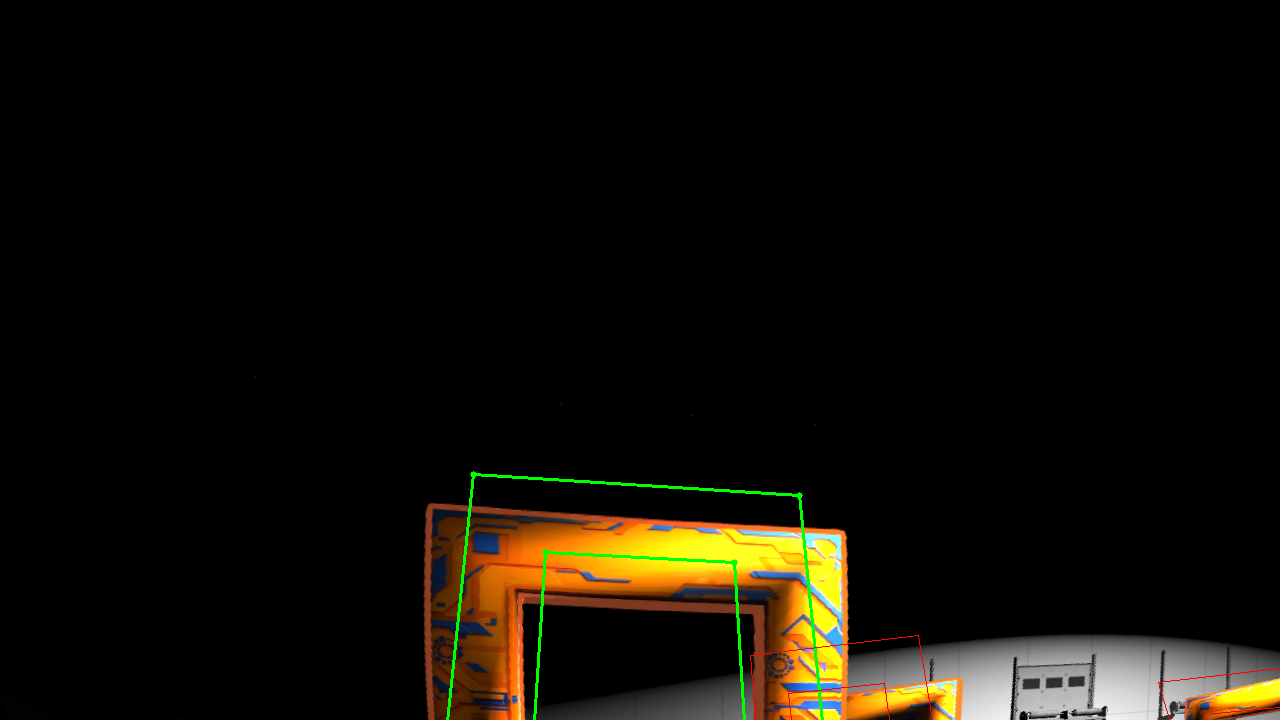
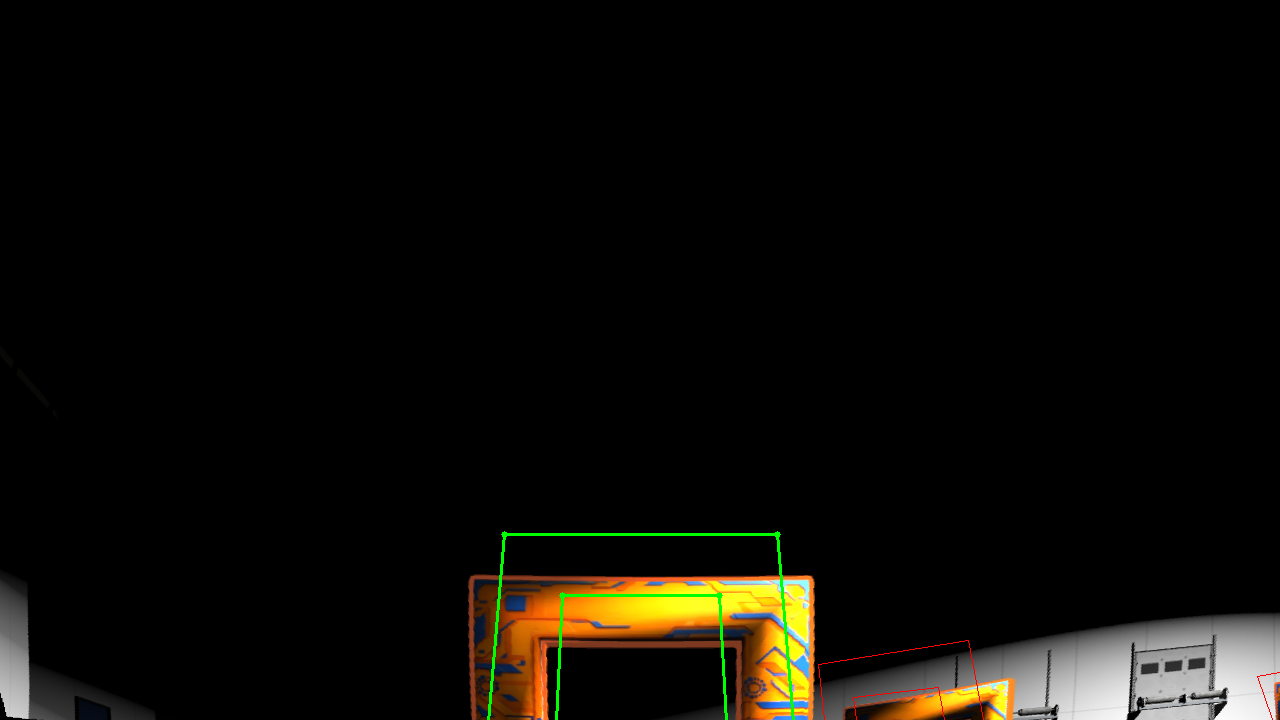
getting somewhere, found discrepency b/t computed tvec and true tvec, now just have to figure out exact cause

Changed region(s): [[0.3125, 0.6722, 1.0, 1.0], [0.0, 0.7944, 0.125, 1.0], [0.375, 0.6417, 0.4688, 0.6722]]

diff --git a/point_label_rand_test.py b/point_label_rand_test.py
@@ -14,20 +14,21 @@ from sensor_msgs.msg import Image
 from nav_msgs.msg import Odometry
 from scipy.spatial.transform import Rotation as R
 
+
 class GateVisualTester(Node):
     def __init__(self):
-        super().__init__('gate_visual_tester')
+        super().__init__("gate_visual_tester")
         self.bridge = CvBridge()
         self.latest_msg = None
         self.latest_odom = None
 
         # --- Section: Load Config ---
-        with open('world_config.json', 'r') as f:
+        with open("world_config.json", "r") as f:
             self.config = json.load(f)
 
-        cam_cfg: dict = self.config['camera']
-        hfov = cam_cfg.get('horizontal_fov', cam_cfg.get('fov'))
-        fx = cam_cfg['width'] / (2 * np.tan(hfov / 2))
+        cam_cfg: dict = self.config["camera"]
+        hfov = cam_cfg.get("horizontal_fov", cam_cfg.get("fov"))
+        fx = cam_cfg["width"] / (2 * np.tan(hfov / 2))
         fy = fx
 
         # self.K = np.array([
@@ -35,24 +36,22 @@ class GateVisualTester(Node):
         #     [0, fy, cam_cfg['height'] / 2],
         #     [0, 0, 1]
         # ], dtype=np.float32)
-        self.K = np.array([
-            [834.0615, 0, 640],
-            [0, 834.0616, 360],
-            [0, 0, 1]
-        ], dtype=np.float32)
+        self.K = np.array(
+            [[834.0615, 0, 640], [0, 834.0616, 360], [0, 0, 1]], dtype=np.float32
+        )
 
-        self.img_dir = os.path.expanduser('~/git_repos/mav_simulator/test_projections')
+        self.img_dir = os.path.expanduser("~/git_repos/mav_simulator/test_projections")
         os.makedirs(self.img_dir, exist_ok=True)
 
         # Use BEST_EFFORT QoS with depth=1 for latest odometry only
         qos_profile = QoSProfile(
             reliability=QoSReliabilityPolicy.BEST_EFFORT,
             history=QoSHistoryPolicy.KEEP_LAST,
-            depth=1
+            depth=1,
         )
 
-        self.create_subscription(Image, '/X3/camera/image_raw', self.img_cb, 10)
-        self.create_subscription(Odometry, '/X3/odom', self.odom_cb, qos_profile)
+        self.create_subscription(Image, "/X3/camera/image_raw", self.img_cb, 10)
+        self.create_subscription(Odometry, "/X3/odom", self.odom_cb, qos_profile)
 
     def img_cb(self, msg):
         self.latest_msg = msg
@@ -62,18 +61,18 @@ class GateVisualTester(Node):
     def odom_cb(self, msg):
         """Store latest odometry data with timestamp"""
         self.latest_odom = {
-            'pos': {
-                'x': msg.pose.pose.position.x,
-                'y': msg.pose.pose.position.y,
-                'z': msg.pose.pose.position.z
+            "pos": {
+                "x": msg.pose.pose.position.x,
+                "y": msg.pose.pose.position.y,
+                "z": msg.pose.pose.position.z,
             },
-            'ori': {
-                'x': msg.pose.pose.orientation.x,
-                'y': msg.pose.pose.orientation.y,
-                'z': msg.pose.pose.orientation.z,
-                'w': msg.pose.pose.orientation.w
+            "ori": {
+                "x": msg.pose.pose.orientation.x,
+                "y": msg.pose.pose.orientation.y,
+                "z": msg.pose.pose.orientation.z,
+                "w": msg.pose.pose.orientation.w,
             },
-            'receive_time': time.time()
+            "receive_time": time.time(),
         }
 
     # def teleport_and_verify(self, target_pose):
@@ -86,12 +85,12 @@ class GateVisualTester(Node):
     #     angle_offset = random.uniform(-math.radians(20), math.radians(20))
     #     total_yaw = gyaw + angle_offset
     #     tx, ty, tz = gx - dist * math.cos(total_yaw), gy - dist * math.sin(total_yaw), random.uniform(1.0, 2.0)
-        
+
     #     qz, qw = math.sin(total_yaw / 2), math.cos(total_yaw / 2)
 
     #     req = f'name:"X3", position:{{x:{tx}, y:{ty}, z:{tz}}}, orientation:{{z:{qz}, w:{qw}}}'
-    #     cmd = ["ign", "service", "-s", "/world/x3_illini_warehouse/set_pose", 
-    #            "--reqtype", "ignition.msgs.Pose", "--reptype", "ignition.msgs.Boolean", 
+    #     cmd = ["ign", "service", "-s", "/world/x3_illini_warehouse/set_pose",
+    #            "--reqtype", "ignition.msgs.Pose", "--reptype", "ignition.msgs.Boolean",
     #            "--timeout", "2000", "--req", req]
 
     #     # Retry service call if it fails (common on first gate)
@@ -122,7 +121,7 @@ class GateVisualTester(Node):
     #     out = res.stdout
     #     p_b = re.search(r'position\s*\{([\s\S]*?)\}', out).group(1)
     #     o_b = re.search(r'orientation\s*\{([\s\S]*?)\}', out).group(1)
-        
+
     #     pos = {k: float(re.search(fr'{k}:\s*([-eE0-9.+]+)', p_b).group(1)) for k in ['x', 'y', 'z']}
     #     ori = {k: float(re.search(fr'{k}:\s*([-eE0-9.+]+)', o_b).group(1)) for k in ['x', 'y', 'z', 'w']}
     #     return pos, ori
@@ -130,14 +129,20 @@ class GateVisualTester(Node):
         """CLI-based teleport with validation (aligned with training script)"""
         gx, gy, gz, _, _, gyaw = target_pose
 
+        # print(f"Target pose {target_pose}")
         # Calculate random viewpoint
-        dist = random.uniform(4.0, 8.5)
+        # dist = random.uniform(4.0, 8.5)
         # dist = random.uniform(5.5, 12)
-        angle_offset = random.uniform(-math.radians(40), math.radians(40))
+
+        ### debugging, use fixed offset
+        dist = 8
+        # angle_offset = random.uniform(-math.radians(40), math.radians(40))
+        angle_offset = math.radians(0)
         total_yaw = gyaw + angle_offset
 
         if gate_type == "single_gate":
-            tz = random.uniform(0.1, 1)
+            # tz = random.uniform(0.1, 1)
+            tz = 0.1
         else:
             tz = random.uniform(0.1, 2)
         # tz = random.uniform(0.5, 3.0)
@@ -146,7 +151,8 @@ class GateVisualTester(Node):
         tx = gx - dist * math.cos(total_yaw)
         ty = gy - dist * math.sin(total_yaw)
 
-        look_at_yaw = total_yaw + random.uniform(-math.radians(5), math.radians(5))
+        # look_at_yaw = total_yaw + random.uniform(-math.radians(5), math.radians(5))
+        look_at_yaw = total_yaw
         qz = math.sin(look_at_yaw / 2)
         qw = math.cos(look_at_yaw / 2)
 
@@ -158,14 +164,20 @@ class GateVisualTester(Node):
         req_data = f'name:"X3", position:{{x:{tx}, y:{ty}, z:{tz}}}, orientation:{{z:{qz}, w:{qw}}}'
         cmd = [
             # "ign",
-            "gz",  
-            "service", "-s", "/world/x3_illini_warehouse/set_pose",
+            "gz",
+            "service",
+            "-s",
+            "/world/x3_illini_warehouse/set_pose",
             # "--reqtype", "ignition.msgs.Pose",
             # "--reptype", "ignition.msgs.Boolean",
-            "--reqtype", "gz.msgs.Pose",
-            "--reptype", "gz.msgs.Boolean",
-            "--timeout", "2000",
-            "--req", req_data
+            "--reqtype",
+            "gz.msgs.Pose",
+            "--reptype",
+            "gz.msgs.Boolean",
+            "--timeout",
+            "2000",
+            "--req",
+            req_data,
         ]
 
         self.get_logger().info(f"Teleporting to ({tx:.2f}, {ty:.2f}, {tz:.2f})")
@@ -195,33 +207,37 @@ class GateVisualTester(Node):
                 continue
 
             # Check data freshness
-            data_age = time.time() - self.latest_odom['receive_time']
+            data_age = time.time() - self.latest_odom["receive_time"]
             if data_age > 0.5:
                 continue
 
             # Verify position
-            curr_xy = np.array([
-                self.latest_odom['pos']['x'],
-                self.latest_odom['pos']['y'],
-            ])
+            curr_xy = np.array(
+                [
+                    self.latest_odom["pos"]["x"],
+                    self.latest_odom["pos"]["y"],
+                ]
+            )
             error = np.linalg.norm(curr_xy - target_xy)
 
             if error < 0.5:  # Within 50cm is good enough
                 self.get_logger().info(f"✓ Teleport verified (error: {error:.3f}m)")
-                return True, (self.latest_odom['pos'], self.latest_odom['ori'])
+                return True, (self.latest_odom["pos"], self.latest_odom["ori"])
 
         self.get_logger().warn("Teleport verification timeout")
         return False, None
-    
+
     def run(self):
-        for i, gate in enumerate(self.config['world_layout']):
+        for i, gate in enumerate(self.config["world_layout"]):
             self.get_logger().info(f"=== Section: Processing Gate {i+1} ===")
-            gx, gy, gz, _, _, gyaw = gate['pose']
+            gx, gy, gz, _, _, gyaw = gate["pose"]
 
             # --- 1. Teleport and verify target via CLI ---
-            success, pose_data = self.teleport_and_verify(gate['pose'], gate['type'])
+            success, pose_data = self.teleport_and_verify(gate["pose"], gate["type"])
             if not success:
-                self.get_logger().error(f"--- Example: Teleport Failed for Gate {i+1} ---")
+                self.get_logger().error(
+                    f"--- Example: Teleport Failed for Gate {i+1} ---"
+                )
                 continue
             pos, quat = pose_data
 
@@ -235,16 +251,16 @@ class GateVisualTester(Node):
                 rclpy.spin_once(self, timeout_sec=0.1)
 
             target_img_msg = self.latest_msg
-            img = self.bridge.imgmsg_to_cv2(target_img_msg, 'bgr8')
+            img = self.bridge.imgmsg_to_cv2(target_img_msg, "bgr8")
 
             # image_pose = self.odom_at_image
 
-            # print("Pose returned by teleport:", pose_data)
+            print("Pose returned by teleport:", pose_data)
             # print("Pose when image callback ran:", image_pose)
 
             # --- 6. Projection math (same as before) ---
-            t_wb = np.array([pos['x'], pos['y'], pos['z']])
-            R_wb = R.from_quat([quat['x'], quat['y'], quat['z'], quat['w']]).as_matrix()
+            t_wb = np.array([pos["x"], pos["y"], pos["z"]])
+            R_wb = R.from_quat([quat["x"], quat["y"], quat["z"], quat["w"]]).as_matrix()
 
             t_bc = np.array([-0.0015, 0.00604, 0.0623])
             # t_bc = np.array([
@@ -252,8 +268,7 @@ class GateVisualTester(Node):
             #     0.00604,      # Cam Y - Base Y
             #     0.0623 - 0.053302   # Cam Z - Base Z (The culprit!)
             # ])
-            R_bc = R.from_euler('xyz', [0.0, -0.523599, 0.0]).as_matrix()
-
+            R_bc = R.from_euler("xyz", [0.0, -0.523599, 0.0]).as_matrix()
             R_wc = R_wb @ R_bc
             t_wc = t_wb + R_wb @ t_bc
 
@@ -266,51 +281,91 @@ class GateVisualTester(Node):
 
             h, w = img.shape[:2]
 
-            for g in self.config['world_layout']:
-                is_target = (g['name'] == gate['name'])
-                gtype = self.config['gate_types'][g['type']]
-                local_pts = np.array(gtype['local_keypoints'], dtype=np.float32)
-                r_gate_mat = R.from_euler('z', g['pose'][5]).as_matrix()
-                world_pts = (r_gate_mat @ local_pts.T).T + np.array(g['pose'][:3])
+            for g in self.config["world_layout"]:
+                is_target = g["name"] == gate["name"]
+                gtype = self.config["gate_types"][g["type"]]
+                local_pts = np.array(gtype["local_keypoints"], dtype=np.float32)
+                r_gate_mat = R.from_euler("z", g["pose"][5]).as_matrix()
+                world_pts = (r_gate_mat @ local_pts.T).T + np.array(g["pose"][:3])
 
                 pts_in_cam = (R_cw @ world_pts.T).T + t_cw.flatten()
-                
+
                 if np.any(pts_in_cam[:, 2] < 0.2):
                     continue
-                
+
                 distortion = np.zeros(5)
                 # distortion = np.array([-0.25390268, 0.06240127, -0.00113674, 0.00213326, 0.0], dtype=np.float32)
-                img_pts, _ = cv2.projectPoints(world_pts, rvec, tvec, self.K, distortion)
+                img_pts, _ = cv2.projectPoints(
+                    world_pts, rvec, tvec, self.K, distortion
+                )
                 img_pts = img_pts.reshape(-1, 2)
                 pixels = [(int(round(pt[0])), int(round(pt[1]))) for pt in img_pts]
 
                 if is_target:
+                    object_points = np.array(
+                        [
+                            [2, -1.35, 2.8],
+                            [2, 1.35, 2.8],
+                            [2, -0.75, 2.2],
+                            [2, 0.75, 2.2],
+                        ],
+                        dtype=np.float32,
+                    )
+                    # 2. The actual pixel keypoints you measured from the image
+                    # Shape: (N, 2)
+                    image_points = np.array(
+                        [
+                            [472, 577],  # Actual Top-Left
+                            [810, 577],  # Actual Top-Right
+                            [540, 639],  # Actual Inner Top-Left
+                            [720, 639],  # Actual Inner Top-Right
+                        ],
+                        dtype=np.float32,
+                    )
+
+                    # 3. Solve PnP to find the exact camera pose that maps world -> pixels
+                    success, rvec_pnp, tvec_pnp = cv2.solvePnP(
+                        object_points, image_points, self.K, None
+                    )
+
+                    print("PnP tvec:", tvec_pnp.flatten())
+                    print("My calculated tvec:", tvec.flatten())
+
                     color = (0, 255, 0)
                     thickness = 2
                     # Get loops from config: e.g., [[0,1,2,3], [4,5,6,7]]
-                    loops = gtype.get('loops', [range(len(pixels))]) 
-                    
+                    loops = gtype.get("loops", [range(len(pixels))])
+
                     for loop in loops:
                         # Convert loop indices to a list of pixel tuples
                         loop_pts = [pixels[idx] for idx in loop]
-                        
+
                         for j in range(len(loop_pts)):
                             pt1 = loop_pts[j]
-                            pt2 = loop_pts[(j + 1) % len(loop_pts)] # Closes the loop
+                            pt2 = loop_pts[(j + 1) % len(loop_pts)]  # Closes the loop
                             cv2.line(img, pt1, pt2, color, thickness)
                             cv2.circle(img, pt1, 3, color, -1)
                 else:
                     # Non-target gates (red)
                     if any(0 <= p[0] < w and 0 <= p[1] < h for p in pixels):
                         color = (0, 0, 255)
-                        loops = gtype.get('loops', [range(len(pixels))])
+                        loops = gtype.get("loops", [range(len(pixels))])
                         for loop in loops:
                             loop_pts = [pixels[idx] for idx in loop]
                             for j in range(len(loop_pts)):
-                                cv2.line(img, loop_pts[j], loop_pts[(j + 1) % len(loop_pts)], color, 1)
+                                cv2.line(
+                                    img,
+                                    loop_pts[j],
+                                    loop_pts[(j + 1) % len(loop_pts)],
+                                    color,
+                                    1,
+                                )
 
-            cv2.imwrite(os.path.join(self.img_dir, f'randgate{i+1}.png'), img)
+            cv2.imwrite(os.path.join(self.img_dir, f"randgate{i+1}.png"), img)
             self.get_logger().info(f"--- Example: Saved randgate{i+1}.png ---")
+
+            ### quit after first gate
+            quit()
 
 
 def main():
@@ -322,5 +377,6 @@ def main():
         node.destroy_node()
         rclpy.shutdown()
 
-if __name__ == '__main__':
+
+if __name__ == "__main__":
     main()
